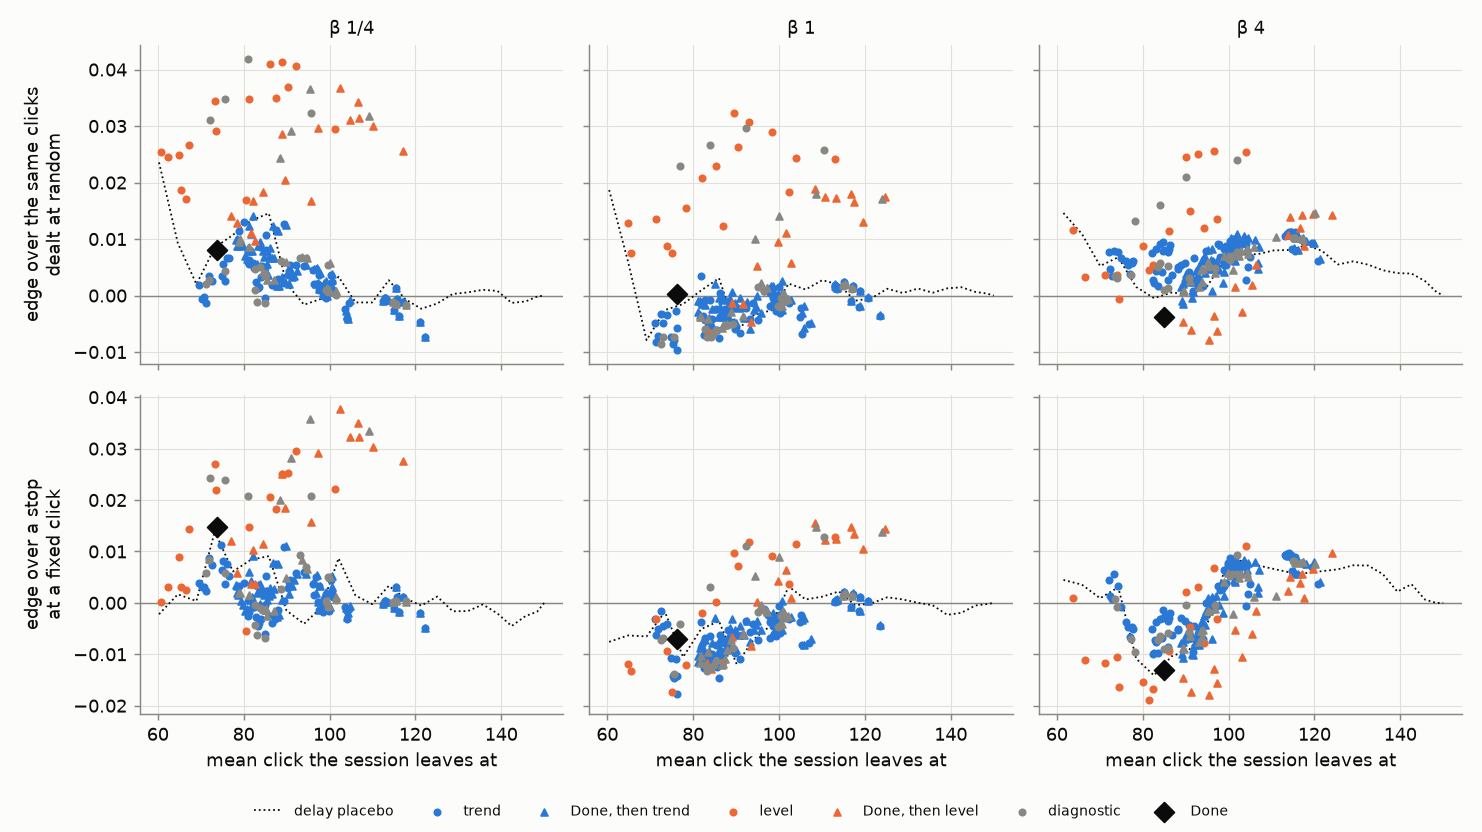
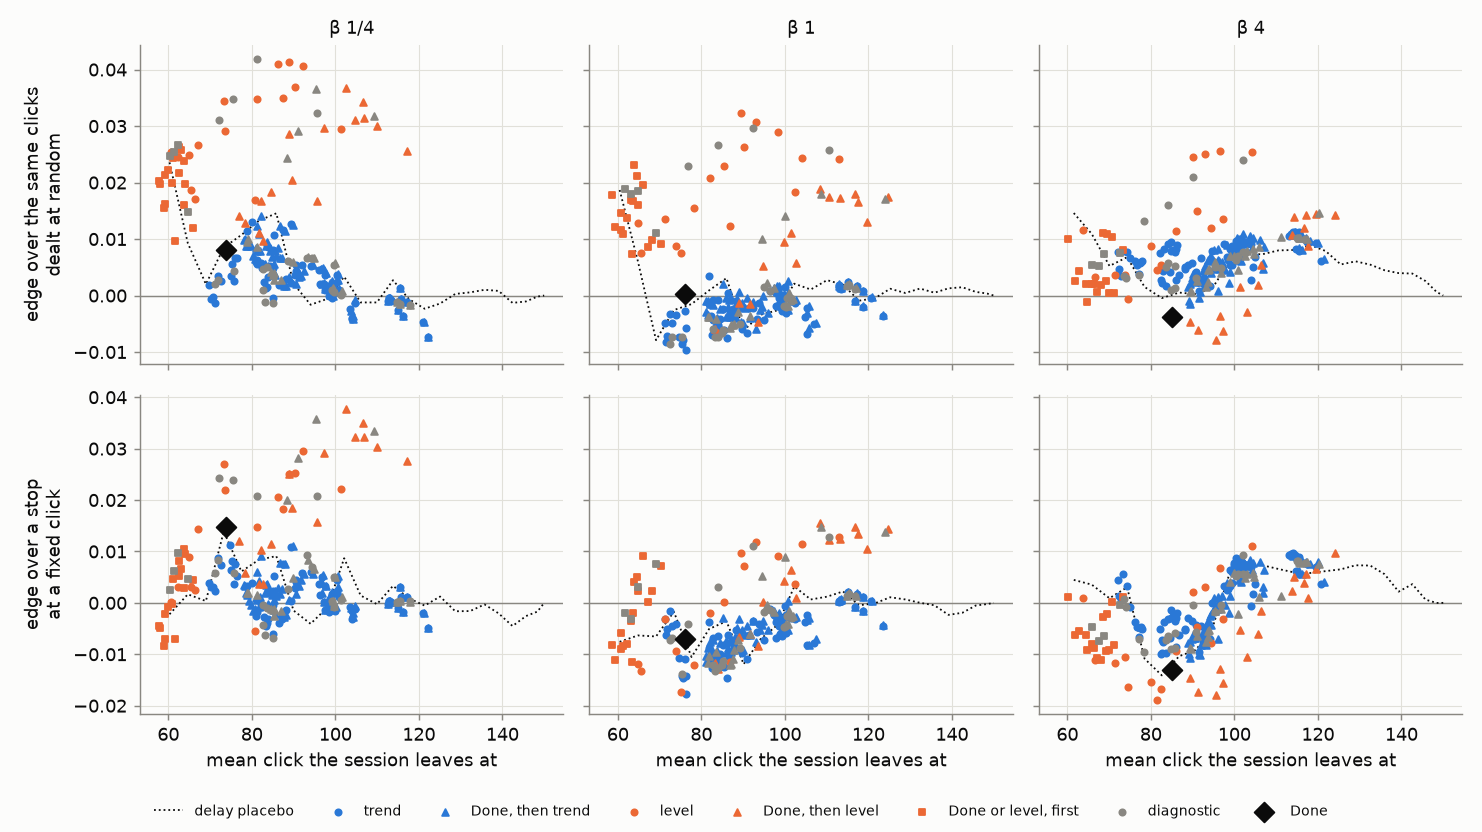
#4878: price Done or the level rule, whichever comes first
Keeps Done for every session it stops and lets the line's level end
one sooner: 11-16 clicks sooner on average for 0.003-0.009 of mean
F-beta, and its clicks spent better than Done and than the placebo at
the same mean click at beta 1/4 and 1.

Claude-Session: https://claude.ai/code/session_01CjJ37UQJgRrPQpBhy8EuPs

diff --git a/scripts/experiments/state_of_app/stop_signal_4878.py b/scripts/experiments/state_of_app/stop_signal_4878.py
@@ -291,12 +291,20 @@ DELAYS = tuple(range(0, 125, 5))
 
 
 def with_placebos(sessions: pd.DataFrame) -> pd.DataFrame:
-    """*sessions* with Done's stop and the delay placebos as ``stop[...]`` columns."""
+    """*sessions* with Done's stop, the delay placebos, and Done-or-level as ``stop[...]`` columns.
+
+    ``done|{level rule}`` stops at whichever comes first, Done or the level rule: Done keeps every session
+    it stops, and the level rule can end one sooner.
+    """
     start = pd.to_numeric(sessions["class_model_from"], errors="coerce")
+    done = pd.to_numeric(sessions["done"], errors="coerce")
     extra = {"stop[done]": sessions["done"]}
     for n in DELAYS:
         stop = start + n
         extra[f"stop[delay:{n}]"] = stop.where(stop <= HORIZON)
+    for col in [c for c in sessions.columns if c.startswith("stop[") and ":level:" in c and "done+" not in c]:
+        rule = col[5:-1]
+        extra[f"stop[done|{rule}]"] = np.fmin(done, pd.to_numeric(sessions[col], errors="coerce"))
     return sessions.assign(**extra)
 
 
@@ -306,7 +314,7 @@ def family(rule: str) -> str:
         return "done"
     if rule.startswith("delay:"):
         return "delay"
-    sig = rule.removeprefix("done+").split(":")[0]
+    sig = rule.removeprefix("done+").removeprefix("done|").split(":")[0]
     return "diagnostic" if sig in DIAGNOSTIC else "candidate"
 
 
@@ -357,8 +365,8 @@ def held_out(sessions: pd.DataFrame) -> pd.DataFrame:
 
 
 #: The rules the report reads by band: Done, one level rule at one threshold for every preset, the same after
-#: Done, and the placebo that stops when the class model first cuts.
-BY_BAND = ("done", "efbeta:level:0.5", "done+efbeta:level:0.5", "delay:0")
+#: Done, Done or it whichever comes first, and the placebo that stops when the class model first cuts.
+BY_BAND = ("done", "efbeta:level:0.5", "done+efbeta:level:0.5", "done|efbeta:level:0.5", "delay:0")
 
 
 def by_band(sessions: pd.DataFrame) -> pd.DataFrame:
@@ -446,16 +454,21 @@ def edges_figure(priced: pd.DataFrame, out: Path) -> None:
             for k, color in KIND_COLORS.items():
                 q = p[p["kind"] == k]
                 after = q["rule"].str.startswith("done+")
-                ax.scatter(q.loc[~after, "mean_leave"], q.loc[~after, metric], s=12, color=color, label=k, zorder=3)
-                ax.scatter(
-                    q.loc[after, "mean_leave"],
-                    q.loc[after, metric],
-                    s=14,
-                    marker="^",
-                    color=color,
-                    label=f"Done, then {k}" if k != "diagnostic" else None,
-                    zorder=3,
-                )
+                either = q["rule"].str.startswith("done|")
+                alone = ~after & ~either
+                named = k != "diagnostic"
+                ax.scatter(q.loc[alone, "mean_leave"], q.loc[alone, metric], s=12, color=color, label=k, zorder=3)
+                for mask, marker, text in ((after, "^", f"Done, then {k}"), (either, "s", f"Done or {k}, first")):
+                    if mask.any():
+                        ax.scatter(
+                            q.loc[mask, "mean_leave"],
+                            q.loc[mask, metric],
+                            s=14,
+                            marker=marker,
+                            color=color,
+                            label=text if named else None,
+                            zorder=3,
+                        )
             d = p[p["kind"] == "done"].iloc[0]
             ax.scatter([d["mean_leave"]], [d[metric]], s=60, marker="D", color=INK, label="Done", zorder=4)
             if row == 0:

diff --git a/docs/experiments/2026-10-14-stop-signal-4878/REPORT.md b/docs/experiments/2026-10-14-stop-signal-4878/REPORT.md
@@ -164,6 +164,30 @@ On large objects the level rule stops sooner than Done and leaves a higher F-bet
 medium and small objects it mostly does not stop: those sessions click on, and gain. Within every band the
 rule's clicks go where they pay better than at random, so it is not only sorting easy classes from hard ones.
 
+### Done or the level rule, whichever comes first
+
+A gentler change keeps Done for every session it stops, and lets the level rule end a session sooner. That is
+`done|efbeta:level:0.5`, over all 720 sessions a preset (`by_band.csv`):
+
+| preset | rule | fires | mean leave | F-beta at leave | edge over a fixed click | edge over random dealing |
+|---|---|---|---|---|---|---|
+| β 1/4 | Done | 89% | 74 | 0.58 | +0.015 ± 0.007 | +0.008 ± 0.005 |
+| | Done or level | 90% | 63 | 0.575 | +0.007 ± 0.008 | +0.026 ± 0.007 |
+| β 1 | Done | 89% | 76 | 0.47 | −0.007 ± 0.005 | +0.000 ± 0.003 |
+| | Done or level | 89% | 65 | 0.468 | +0.005 ± 0.006 | +0.021 ± 0.005 |
+| β 4 | Done | 88% | 85 | 0.55 | −0.013 ± 0.005 | −0.004 ± 0.004 |
+| | Done or level | 89% | 69 | 0.539 | −0.002 ± 0.006 | +0.011 ± 0.005 |
+
+It stops a session 11, 12 and 16 clicks sooner than Done does, on average, for 0.005, 0.003 and 0.009 of mean
+F-beta. It spends its clicks better than Done at every preset (the last column), and at β 1 and 4 it beats a
+fixed click where Done loses to one.
+
+It also beats the placebo at the same mean click, by interpolating the dotted line:
+- **over random dealing:** +0.026, +0.021 and +0.011, against the placebo's +0.014, +0.007 and +0.006;
+- **over a fixed click:** +0.007, +0.005 and −0.002, against the placebo's +0.000, −0.006 and +0.001.
+
+So the level reading adds to Done at β 1/4 and β 1, and little at β 4.
+
 ## What this leaves open
 
 - **The level rule's threshold was learned on one corpus.** COCO Better's 11.6k-image Train pool at about 1%
